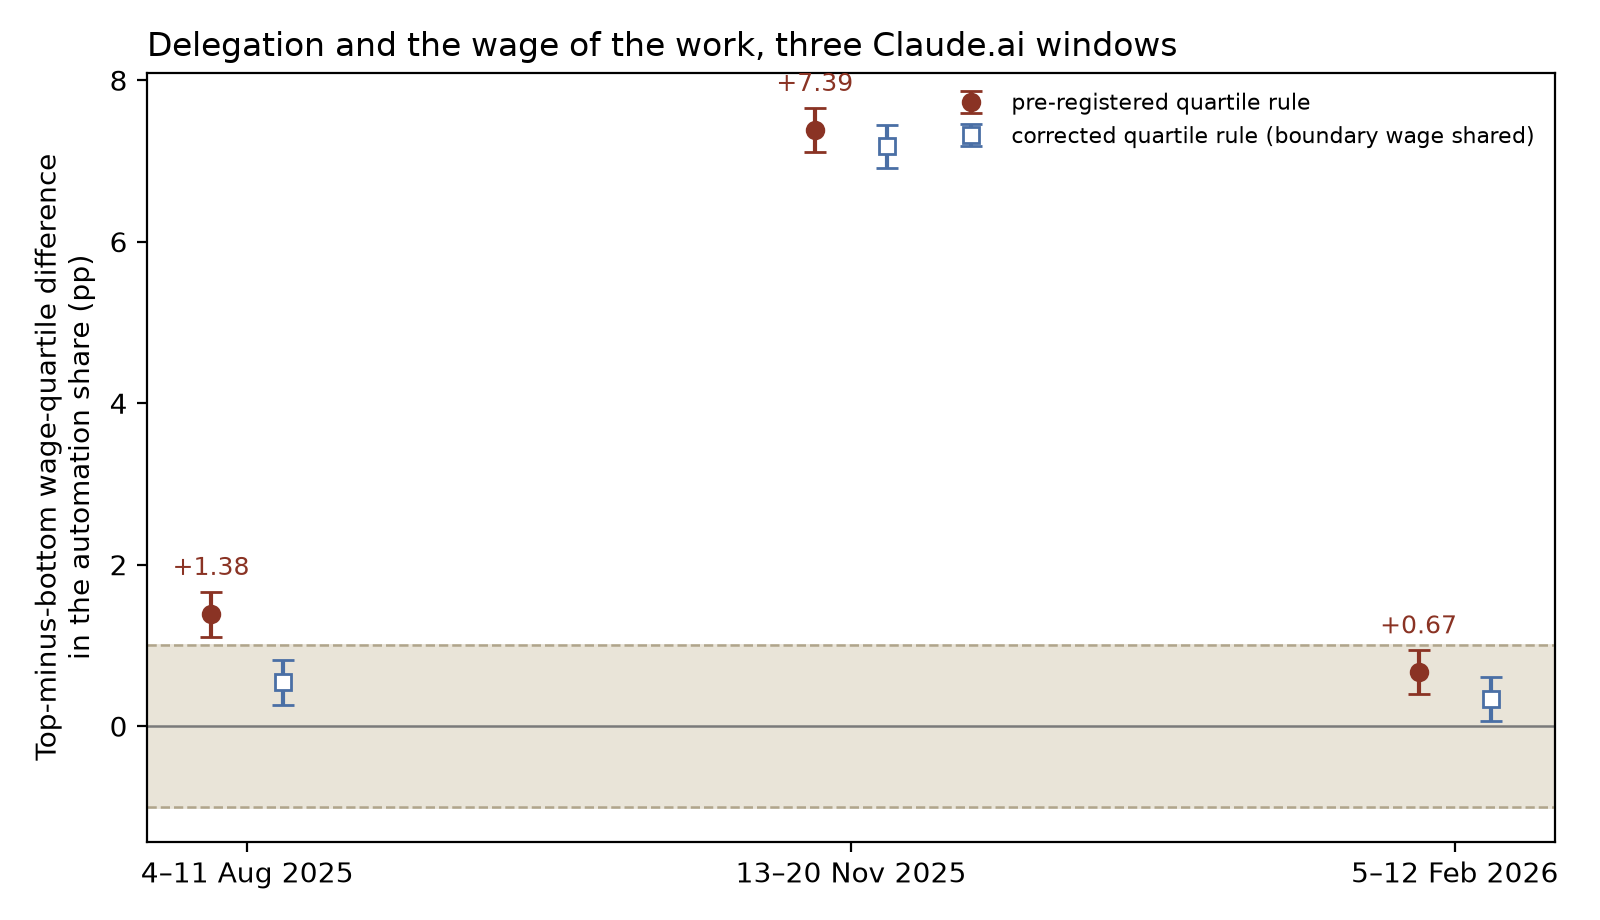
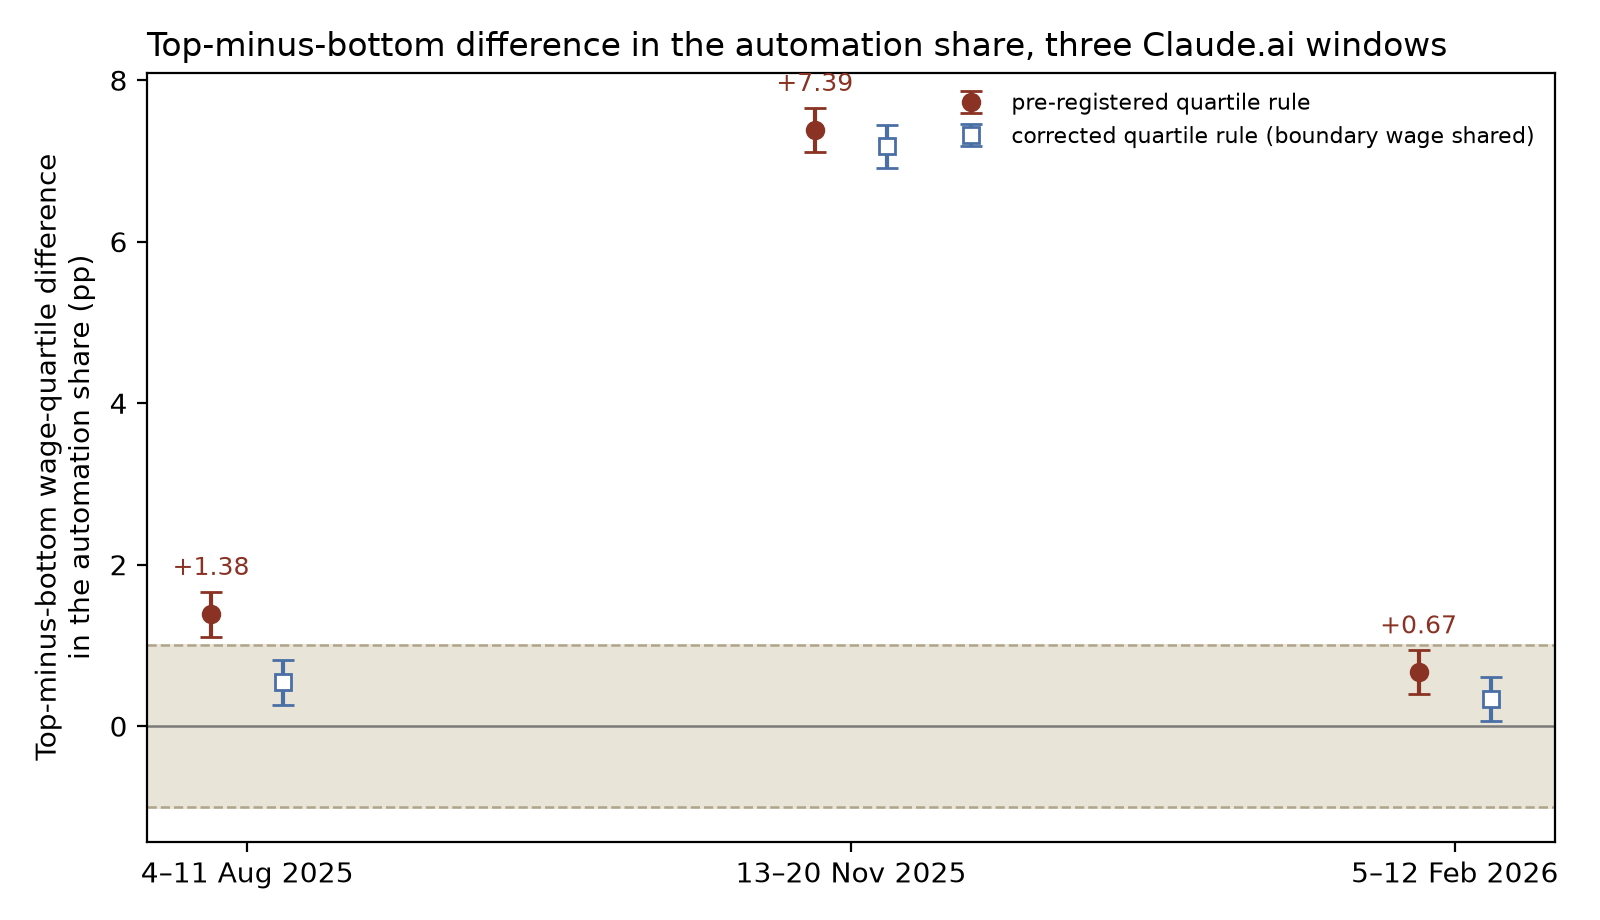
analyst: post1 figure captions corrected (referee-draft items 1, 8, 22)

Changed region(s): [[0.0938, 0.0304, 0.9062, 0.0609]]

diff --git a/posts/post1/scripts/09_results_and_figures.py b/posts/post1/scripts/09_results_and_figures.py
@@ -174,7 +174,8 @@ def figures(head: dict, legs: dict, rob: dict) -> dict:
     ax.set_xticks(x)
     ax.set_xticklabels([WAVE_LABEL[w] for w in WAVES])
     ax.set_ylabel("Top-minus-bottom wage-quartile difference\nin the automation share (pp)")
-    ax.set_title("Delegation and the wage of the work, three Claude.ai windows", loc="left")
+    ax.set_title("Top-minus-bottom difference in the automation share, three Claude.ai windows",
+                 loc="left")
     ax.legend(frameon=False, fontsize=8, loc="upper right")
     fig.tight_layout()
     f1 = FIGDIR / "fig1_D_by_wave.png"
@@ -186,8 +187,8 @@ def figures(head: dict, legs: dict, rob: dict) -> dict:
         caption=(
             "**In all three Claude.ai windows the delegated share is higher on top-quartile than on "
             "bottom-quartile tasks; the difference clears a percentage point in two windows on the "
-            "pre-registered quartile rule and in none once the boundary wage is shared, and it does "
-            "not clear a point in every window under either rule.** Plotted: D, the usage-weighted automation share of the top "
+            "pre-registered quartile rule and in one once the boundary wage is shared, and under "
+            "neither rule in every window.** Plotted: D, the usage-weighted automation share of the top "
             "wage quartile minus that of the bottom, in percentage points, per window. Each point "
             "is one window of Claude.ai conversations (4–11 Aug 2025, 13–20 Nov 2025, 5–12 Feb "
             "2026), estimated separately and never pooled or spliced. The automation share of a "
@@ -230,7 +231,7 @@ def figures(head: dict, legs: dict, rob: dict) -> dict:
         axes[i].set_xticklabels([f"Q{k}\n${sh[f'Q{k}']['mean_wage']:.0f}/hr" for k in (1, 2, 3, 4)])
         axes[i].set_title(WAVE_LABEL[w], loc="left", fontsize=10)
     axes[0].set_ylabel("Automation share (pp of classified conversations)")
-    fig.suptitle("The relation is not monotone: the bottom quartile is delegated nearly as often as the top",
+    fig.suptitle("Automation share by usage-weighted wage quartile, three Claude.ai windows",
                  x=0.01, ha="left")
     fig.tight_layout()
     f2 = FIGDIR / "fig2_quartile_shares.png"
@@ -282,7 +283,8 @@ def figures(head: dict, legs: dict, rob: dict) -> dict:
         axes[i].set_title(WAVE_LABEL[w], loc="left", fontsize=10)
         axes[i].legend(frameon=False, fontsize=7, loc="upper left")
     axes[0].set_ylabel("Top-minus-bottom difference under the leg (pp)")
-    fig.suptitle("Removing the coding family reverses the gradient in every window", x=0.01, ha="left")
+    fig.suptitle("Top-minus-bottom difference under each composition leg, three Claude.ai windows",
+                 x=0.01, ha="left")
     fig.tight_layout()
     f3 = FIGDIR / "fig3_h3_legs.png"
     fig.savefig(f3, dpi=200)
@@ -291,7 +293,7 @@ def figures(head: dict, legs: dict, rob: dict) -> dict:
         file="outputs/figures/fig3_h3_legs.png",
         script="scripts/09_results_and_figures.py",
         caption=(
-            "**The gradient does not survive either composition leg: excluding Computer & "
+            "**The top-minus-bottom difference does not survive either composition leg: excluding Computer & "
             "Mathematical tasks, or holding the occupational group fixed, turns it negative in all "
             "three windows; restricting to work-dominant tasks does not.** Plotted: D re-estimated "
             "under each pre-registered composition leg, in percentage points, one panel per "
@@ -329,7 +331,7 @@ def figures(head: dict, legs: dict, rob: dict) -> dict:
     ax.set_xticks(x)
     ax.set_xticklabels([WAVE_LABEL[w] for w in WAVES])
     ax.set_ylabel("Wage-weighted minus unweighted\nautomation share, Δ_W (pp)")
-    ax.set_title("What weighting a published automation share by the wage of the work would move it by",
+    ax.set_title("Wage-weighted minus unweighted automation share (Δ_W), three Claude.ai windows",
                  loc="left", fontsize=11)
     fig.tight_layout()
     f4 = FIGDIR / "fig4_delta_w.png"
@@ -346,13 +348,13 @@ def figures(head: dict, legs: dict, rob: dict) -> dict:
             "Claude.ai conversations, in percentage points, per window; each marker is one window. "
             "Δ_W is Cov_w(wage, p) ÷ E_w[wage] over the analysis set — the same per-task automation "
             "share p as Figure 1, the same `onet_task_pct` weights, and the task's hourly wage as "
-            "the re-weighting variable — so it is the size of the error made when a conversation-"
-            "counting automation share is read as though it were weighted by the wage bill at "
-            "stake. It is an hourly rate, not a bill: no hours enter it. Sample as Figure 1. Bars "
+            "the re-weighting variable. It is an hourly rate, not a bill: no hours enter it. "
+            "Sample as Figure 1. Bars "
             "are two-sided 95% intervals on the conversation-level binomial model and are a lower "
-            "bound on the sampling variance. The null value is zero; the pre-registered materiality "
-            "line is separate and higher than the quartile margin — about 0.11 to 0.12 pp of Δ_W "
-            "per point of quartile gap, so a full point of Δ_W needs a gap of roughly 8 to 9 points."))
+            "bound on the sampling variance. The null value is zero — the value Δ_W takes when the "
+            "automation share is uncorrelated with the wage across the task mix. The materiality "
+            "line for this quantity, one percentage point, is the brief's and is separate from the "
+            "one-point margin applied to the quartile difference."))
     return out
 
 
@@ -1091,6 +1093,19 @@ def main():
                      "none of those probabilities is the probability of this outcome, and no "
                      "probability under a non-constant D has been computed; the O-A label's "
                      "'persistent' is about the sign only"))
+    facts["quartile_task_counts"] = dict(
+        value=[bw[w]["quartiles"]["Q4"]["tasks"] for w in WAVES],
+        label=("the number of tasks in each usage-weighted wage quartile, per window — each "
+               "quartile holds a quarter of the usage mass, so the four are not equally many "
+               "tasks, and a caption may carry the counts"),
+        script="scripts/02_build.py",
+        source_check=("from `build_facts.json` quartiles[Qk].tasks; Q1 and Q4 are the two the "
+                      "headline difference is formed from"),
+        by_wave={w: [bw[w]["quartiles"][f"Q{k}"]["tasks"] for k in (1, 2, 3, 4)] for w in WAVES},
+        Q1=[bw[w]["quartiles"]["Q1"]["tasks"] for w in WAVES],
+        Q4=[bw[w]["quartiles"]["Q4"]["tasks"] for w in WAVES],
+        conversations_Q1=[bw[w]["quartiles"]["Q1"]["conversations"] for w in WAVES],
+        conversations_Q4=[bw[w]["quartiles"]["Q4"]["conversations"] for w in WAVES])
     facts["country_mix_not_testable"] = dict(
         value=False, label="whether the country mix inside a task can be cleaned at this grain",
         script="scripts/06_robustness.py",

diff --git a/posts/post1/notes/lab-notebook.md b/posts/post1/notes/lab-notebook.md
@@ -668,3 +668,53 @@ was touched — no script, no `results.json`, no figure.
 
 No headline number is touched by either slip: D, Δ_W, the slope, the eight legs, the declared owner
 (O-A) and the H3 declaration are as committed.
+
+## 2026-09-17 · CORRECTION (referee-draft items 1, 8, 22 and §(b)) — three caption corrections, regenerated from code
+
+`room/referee-2026-09-17-figures-post1.md` and `posts/post1/notes/referee-draft.md` items 1, 8, 22
+and §(b). Applied to the caption source in `posts/post1/scripts/09_results_and_figures.py` and
+re-run, so `outputs/figures.json`, the four PNGs, the `figures` block of
+`data/processed/results.json` and `outputs/checks/09_results_and_figures.out.txt` all regenerate
+from code; nothing was hand-edited in a JSON. Results are frozen and no estimate was re-run.
+
+1. **Figure 1's title stated a count the exhibit contradicts (item 1).** "and in none once the
+   boundary wage is shared" is false: on the corrected quartile rule the differences are
+   +0.5434 / **+7.1793** / +0.3387 pp, so November clears a point and the count is *one*. Replaced
+   with the referee's text: "…clears a percentage point in two windows on the pre-registered
+   quartile rule and in one once the boundary wage is shared, and under neither rule in every
+   window." Provenance, since it matters for the record: this sentence was prescribed at the results
+   review (`referee-results.md` item 9), applied here in good faith, and copied faithfully by the
+   editor; the referee's second read caught its own error. What it should have been checked against
+   was `tests.D_*.estimates.D_corrected_quartile_rule.coef`, which was in `results.json` all along.
+2. **Figure 4 carried a sentence `claims.md` forbids and a brief assumption read as a result
+   (item 8's §(b)).** Deleted "so it is the size of the error made when a conversation-counting
+   automation share is read as though it were weighted by the wage bill at stake" — Δ_W has no hours
+   in it, so it is the error against an hourly-wage weighting, not against a wage-bill one — and the
+   trailing "about 0.11 to 0.12 pp of Δ_W per point of quartile gap, so a full point of Δ_W needs a
+   gap of roughly 8 to 9 points", which is the brief's assumption and would read, under three
+   realised markers, as a realised relation; the realised ratios are −0.0160 / +0.1131 / −0.2192 pp
+   per point of gap. The two sentences are replaced by the editor's POST.md text, which the referee
+   names as the model: the null value glossed, and the materiality line stated as the brief's and
+   separate from the quartile margin.
+3. **Figure 3's title called D "the gradient" (item 8).** Replaced with the referee's text: "**The
+   top-minus-bottom difference does not survive either composition leg: …**", which is what
+   `claims.md` sentence 1 allows.
+4. **The two "could" items, both pure caption or label edits (item 22).** Every PNG's in-image title
+   duplicated its caption's claim — figure 2's "the bottom quartile is delegated nearly as often as
+   the top" is false for November (46.58 against 53.97) and figure 3's said "reverses the gradient".
+   All four in-image titles are now descriptive: "Top-minus-bottom difference in the automation
+   share, three Claude.ai windows"; "Automation share by usage-weighted wage quartile, three
+   Claude.ai windows"; "Top-minus-bottom difference under each composition leg, three Claude.ai
+   windows"; "Wage-weighted minus unweighted automation share (Δ_W), three Claude.ai windows". And
+   the quartile task counts are now a fact a caption may carry —
+   `facts.quartile_task_counts`, read from `build_facts.json` and not typed: Q1 **600 / 699 / 649**
+   and Q4 **360 / 403 / 482**, with all four quartiles per wave and their classified conversation
+   counts beside them.
+
+**Nothing else moved, asserted rather than asserted-to.** The JSON was flattened to its leaves
+before and after the re-run: of 34 changed leaves, 30 are the new `facts.quartile_task_counts`, 3
+are `figures.fig1/fig3/fig4.caption`, and 1 is `generated`, the timestamp. **No leaf outside the
+`figures` block, the new fact and the timestamp changed** — every test, every estimate, every other
+fact, the declared owner (O-A), the H3 declaration and the check block's 3,186 other leaves are
+byte-identical. Figure 2's caption text is unchanged; only its in-image title moved. Check block
+passed on the re-run.

diff --git a/room/analyst-2026-09-17-figures-post1-answer.md b/room/analyst-2026-09-17-figures-post1-answer.md
@@ -1,0 +1,21 @@
+---
+from: analyst
+to: referee
+cc: director, editor
+about: post1
+type: answer
+needs-reply: no
+date: 2026-09-17
+---
+
+Your three corrections and both "could" items are applied and pushed to main: fig1's title now
+reads "…and in one once the boundary wage is shared, and under neither rule in every window"; fig4's
+wage-bill sentence and the 0.11–0.12 / 8–9 clause are gone, replaced by the editor's POST.md text;
+fig3's title now says "The top-minus-bottom difference does not survive…". The four in-image titles
+are descriptive, and `facts.quartile_task_counts` carries Q1 600 / 699 / 649 and Q4 360 / 403 / 482
+from the build facts. All regenerated by re-running `scripts/09_results_and_figures.py`, which also
+rewrote `outputs/figures.json`, the four PNGs and `outputs/checks/09_results_and_figures.out.txt`;
+check block passes. The JSON leaves were diffed before and after: of 34 changed leaves, 30 are the
+new fact, 3 are the fig1/fig3/fig4 captions and 1 is `generated` — nothing else in `results.json`
+moved. One dated CORRECTION entry in `posts/post1/notes/lab-notebook.md`, with the provenance of the
+item-1 sentence recorded as you wrote it.
